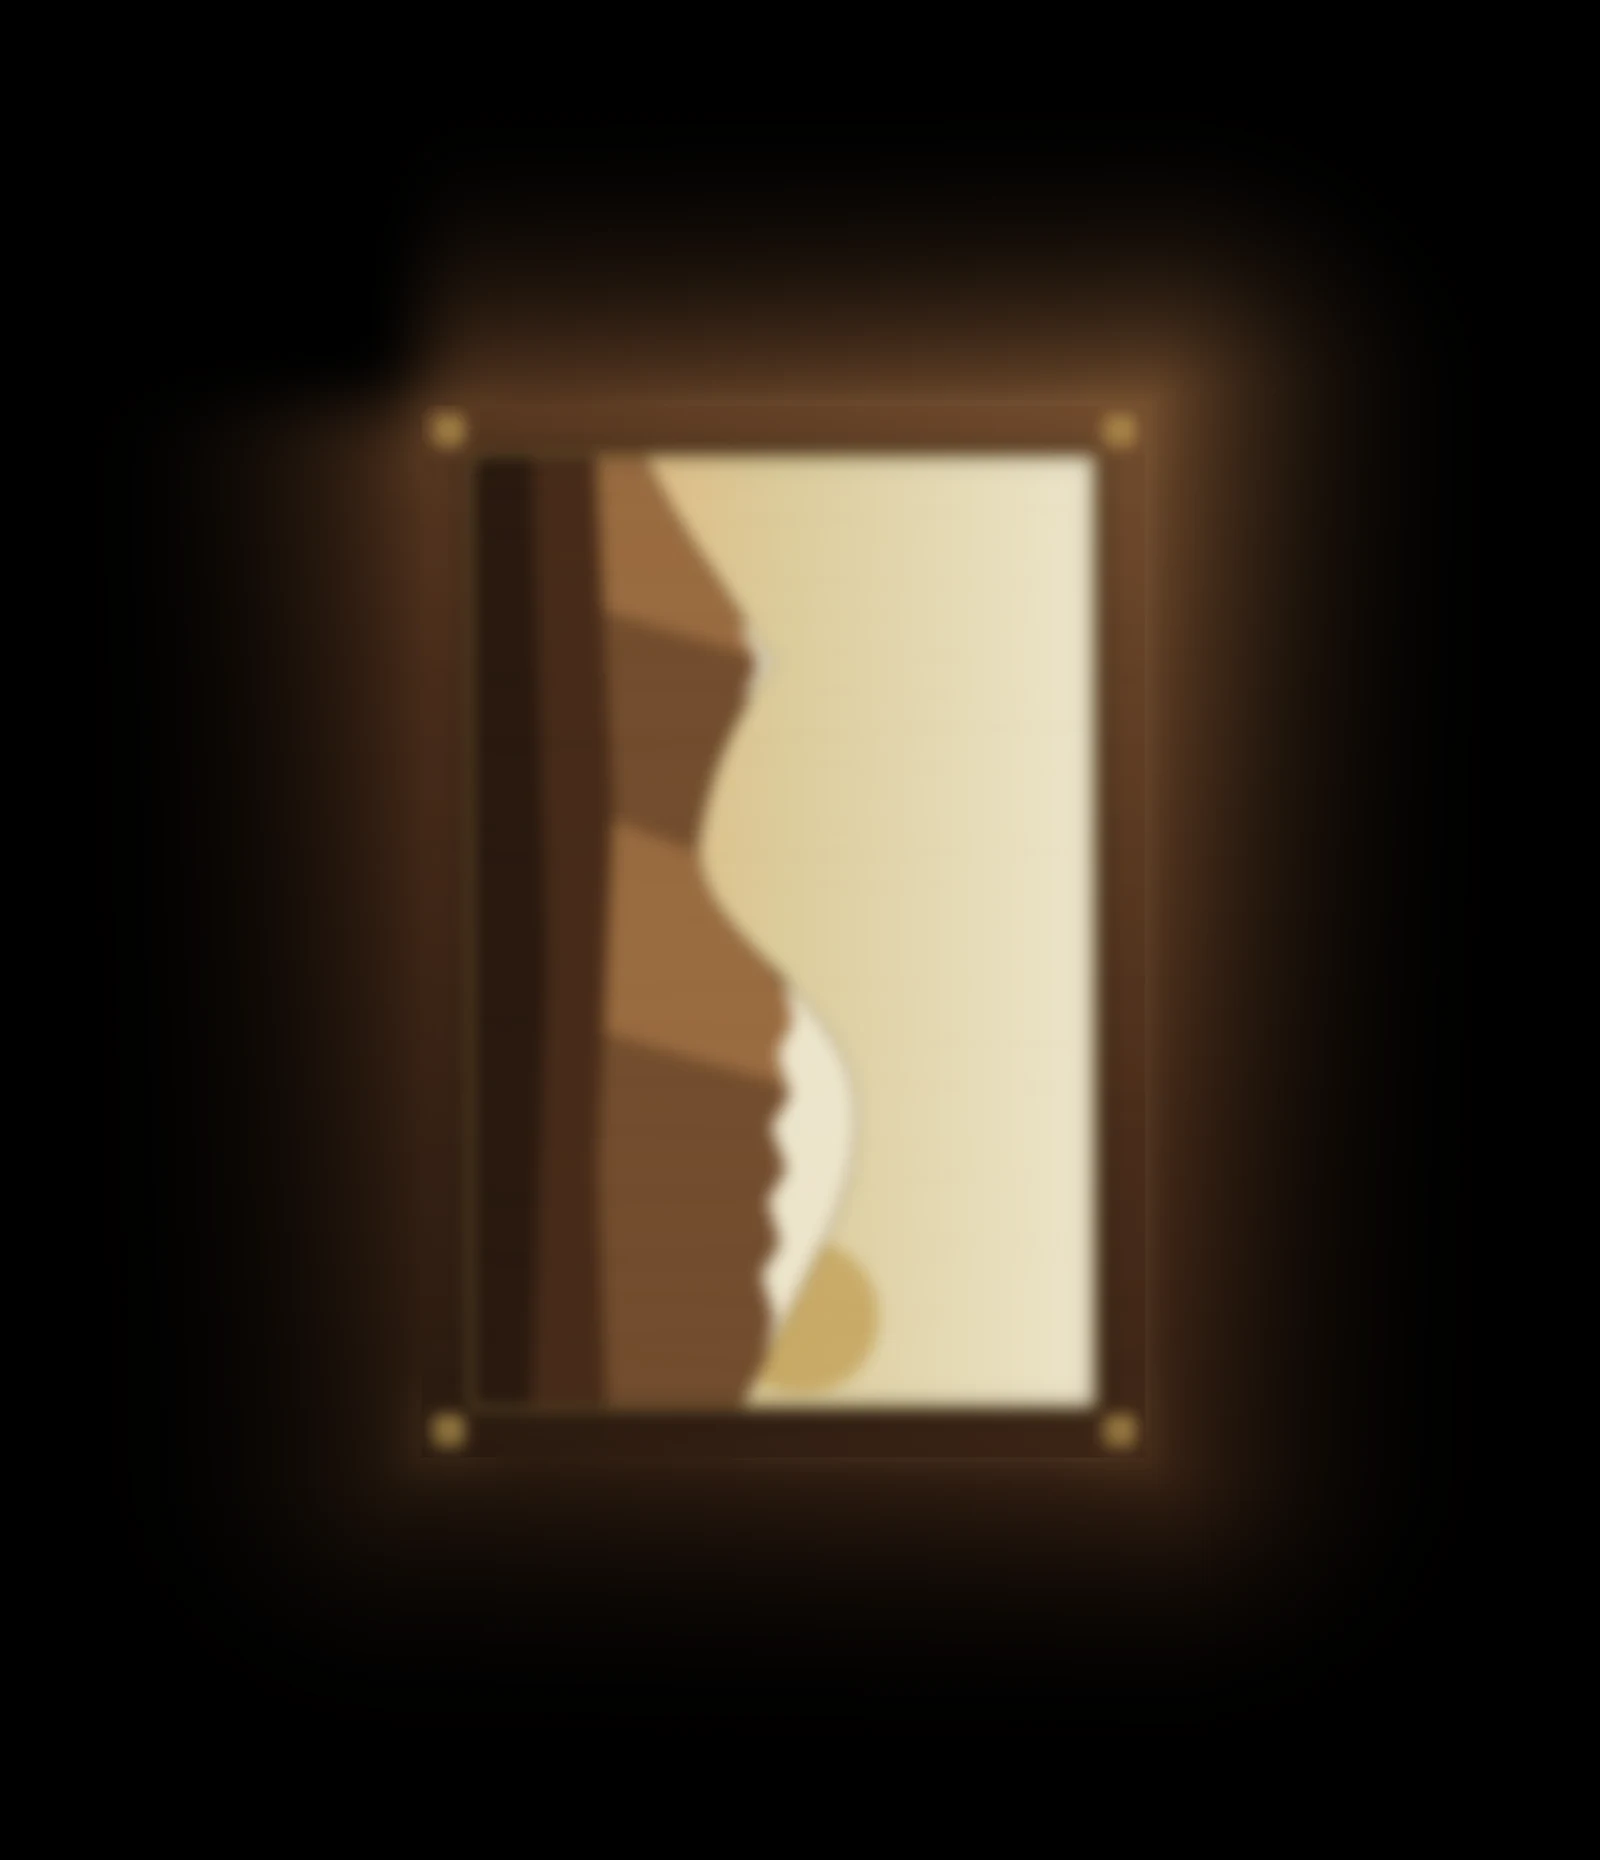
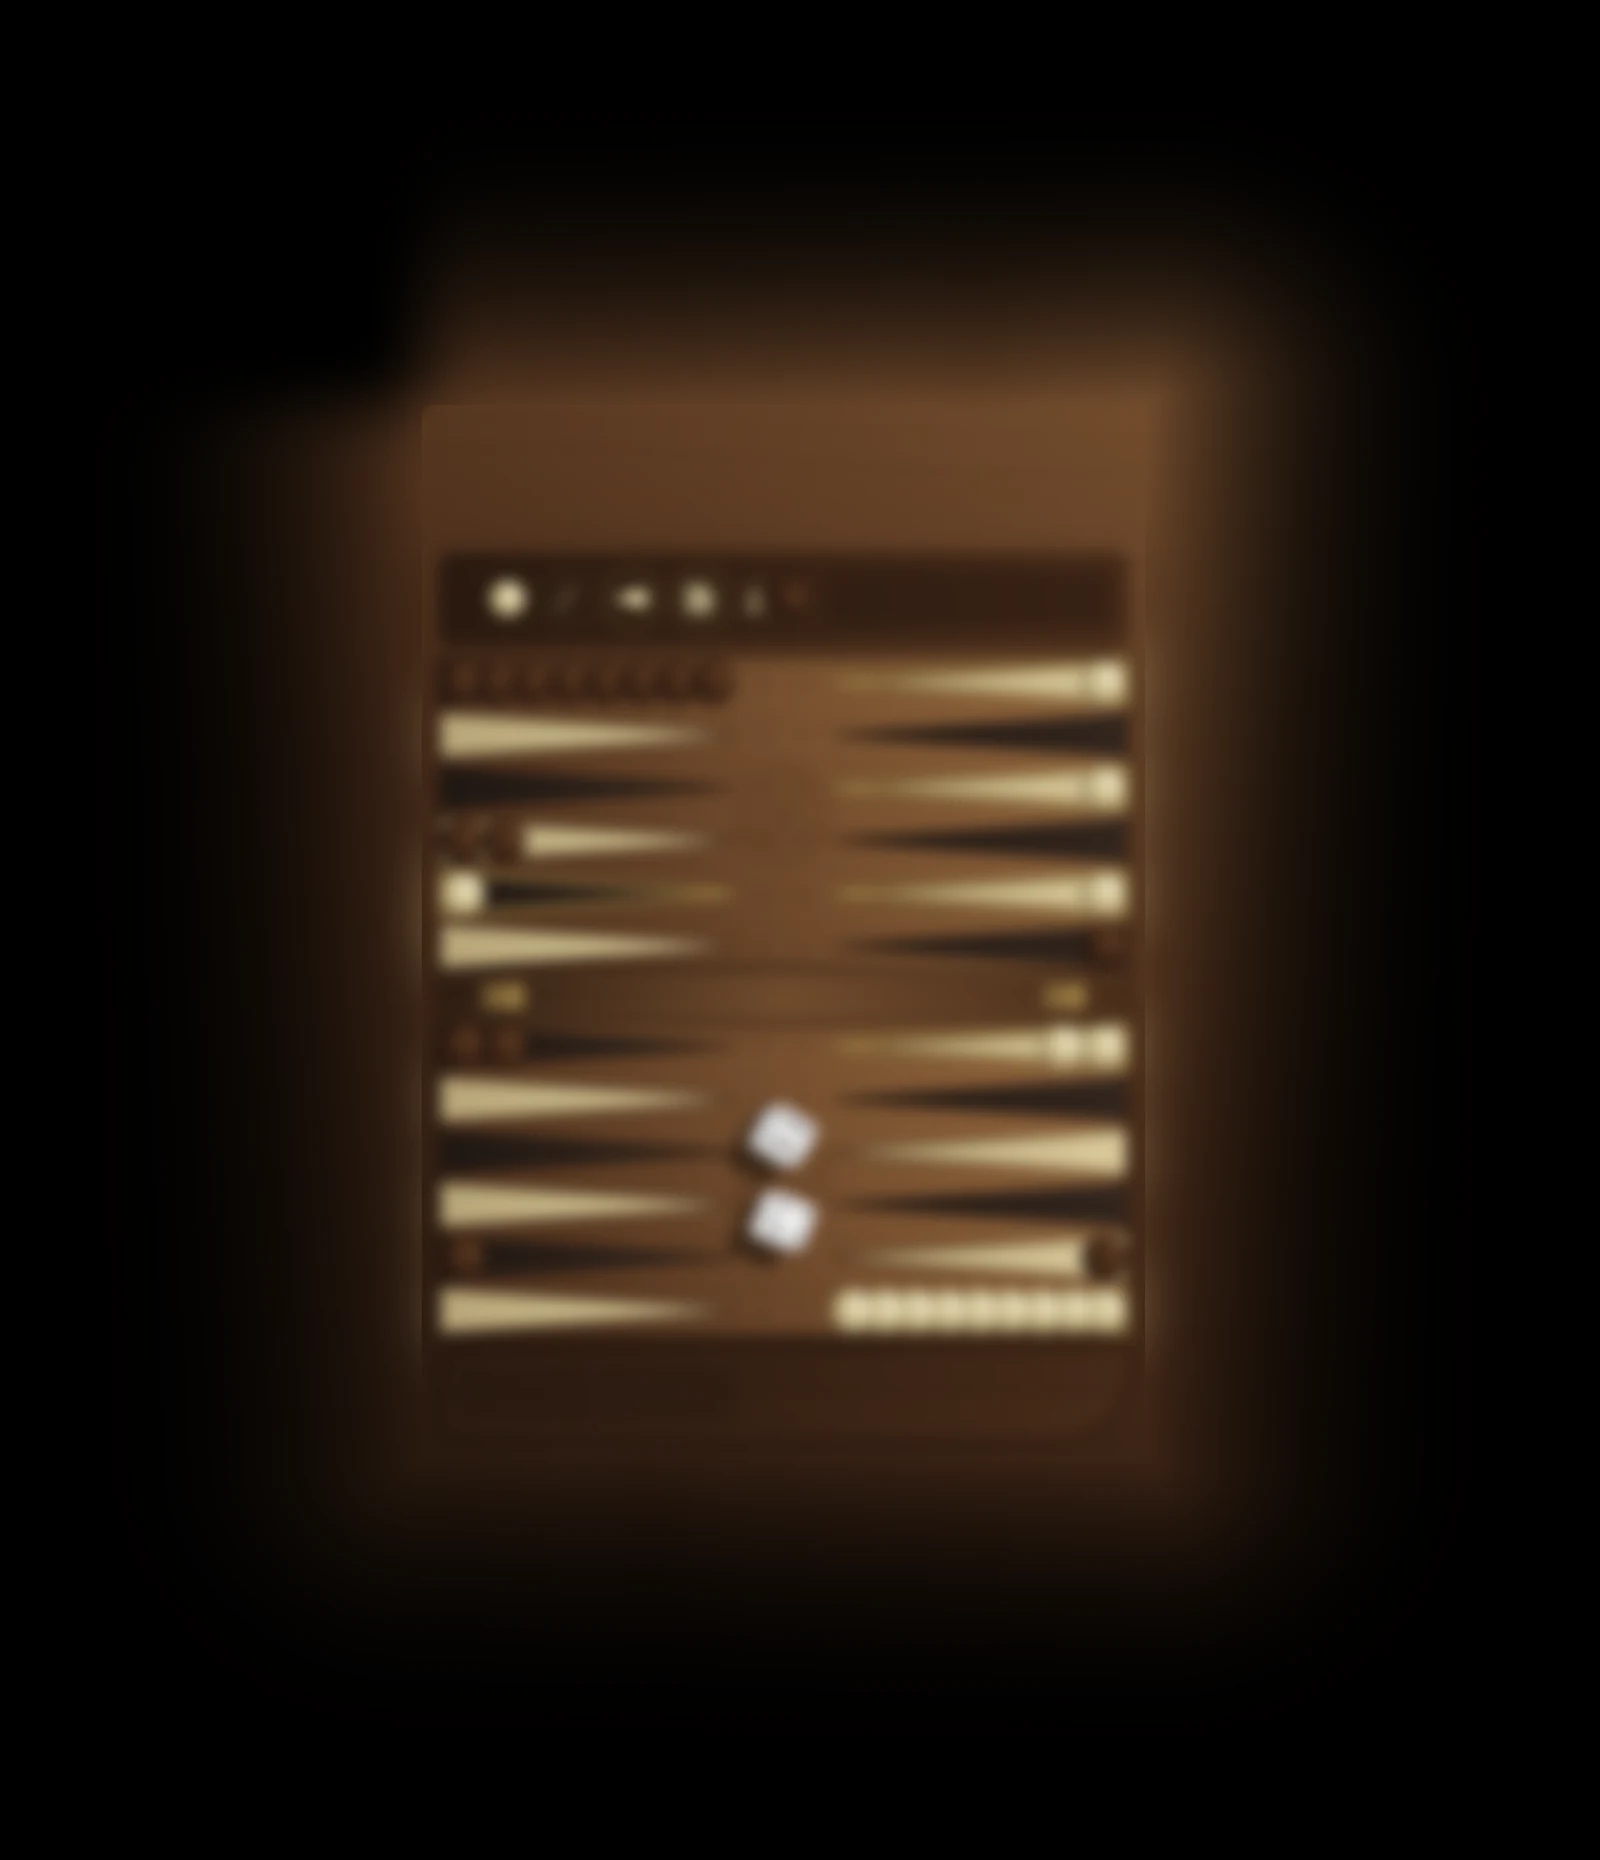
Apps promo: Duo outer display shows game

Changed region(s): [[0.25, 0.2183, 0.7188, 0.7796], [0.25, 0.7484, 0.3125, 0.7796]]

diff --git a/src/lib/apps.ts b/src/lib/apps.ts
@@ -95,11 +95,11 @@ export const apps: App[] = [
     sections: [
       {
         title: "Your foldable is a backgammon board",
-        body: "Hold iPhone Duo half open, like a board on the table: the fold becomes the bar, and a snap of the hinge throws the dice. Close it, and the case closes too, with the inlaid lid on the outside.",
+        body: "Hold iPhone Duo half open, like a board on the table: the fold becomes the bar, and a snap of the hinge throws the dice. Close it, and the game carries on to the outer display.",
         images: [
           {
             src: "/apps/nardy/duo-closed.webp",
-            alt: "Closed iPhone Duo showing the board's inlaid lid with Mount Ararat",
+            alt: "Closed iPhone Duo with the game going on on the outer display",
             width: 1200,
             height: 861,
           },
@@ -116,7 +116,7 @@ export const apps: App[] = [
           ],
           width: 800,
           height: 1163,
-          alt: "iPhone Duo unfolding from the inlaid lid with Mount Ararat into a walnut backgammon board, the fold as the bar",
+          alt: "iPhone Duo unfolding from the game on the outer display into a walnut backgammon board, the fold as the bar",
         },
       },
       {
